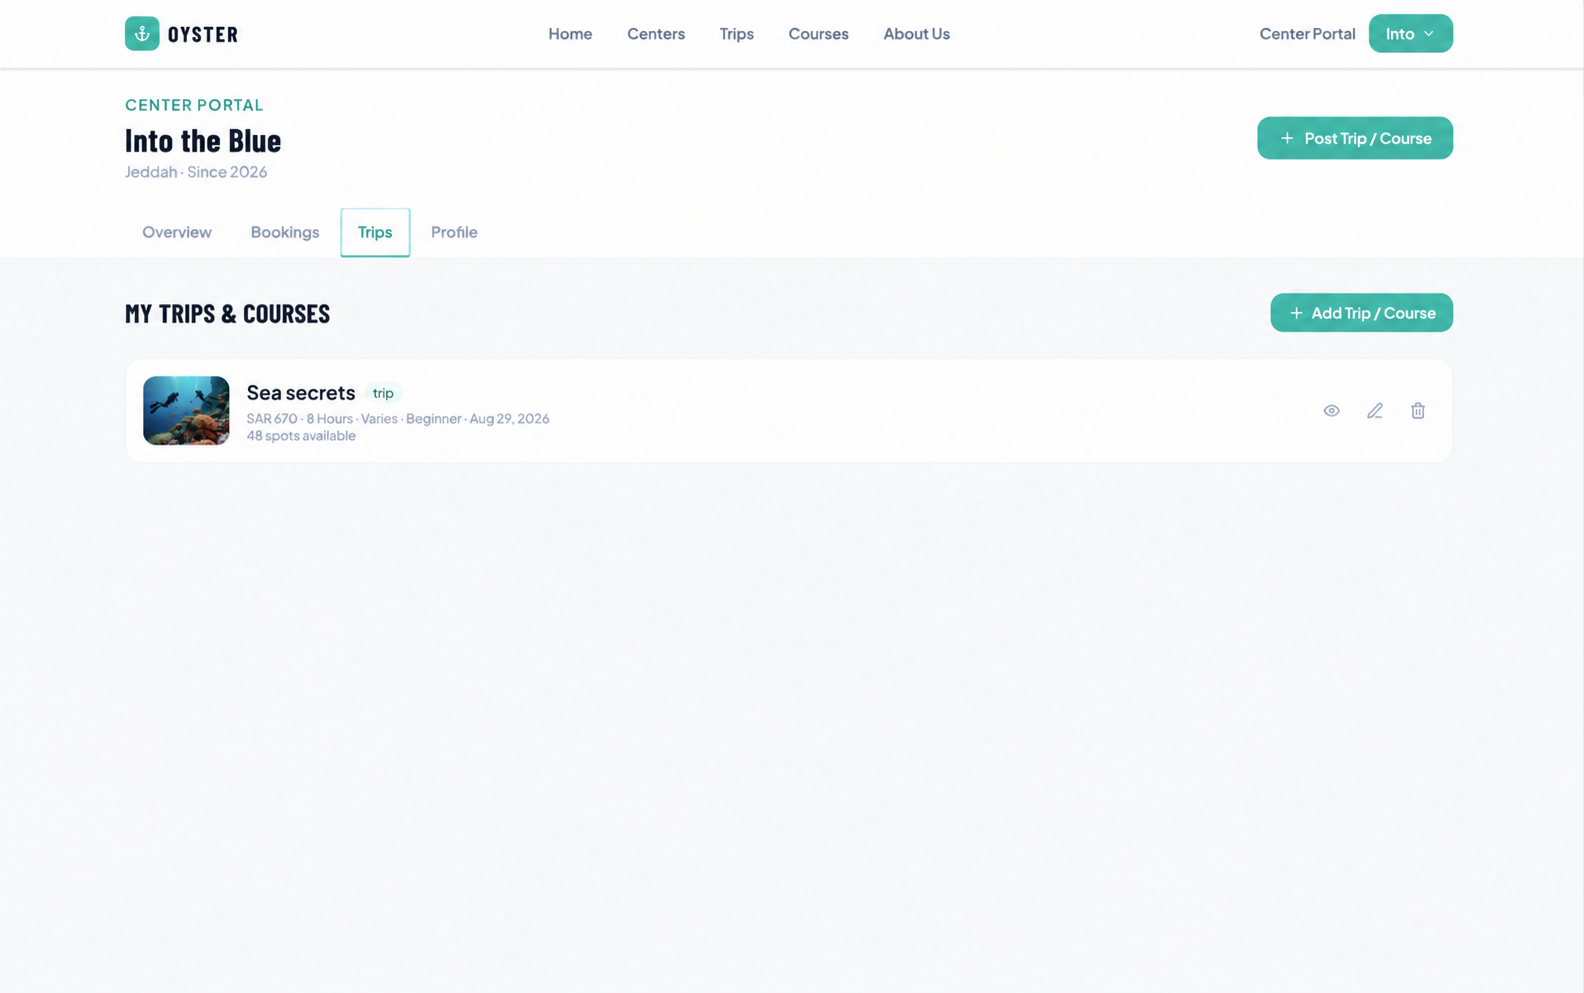
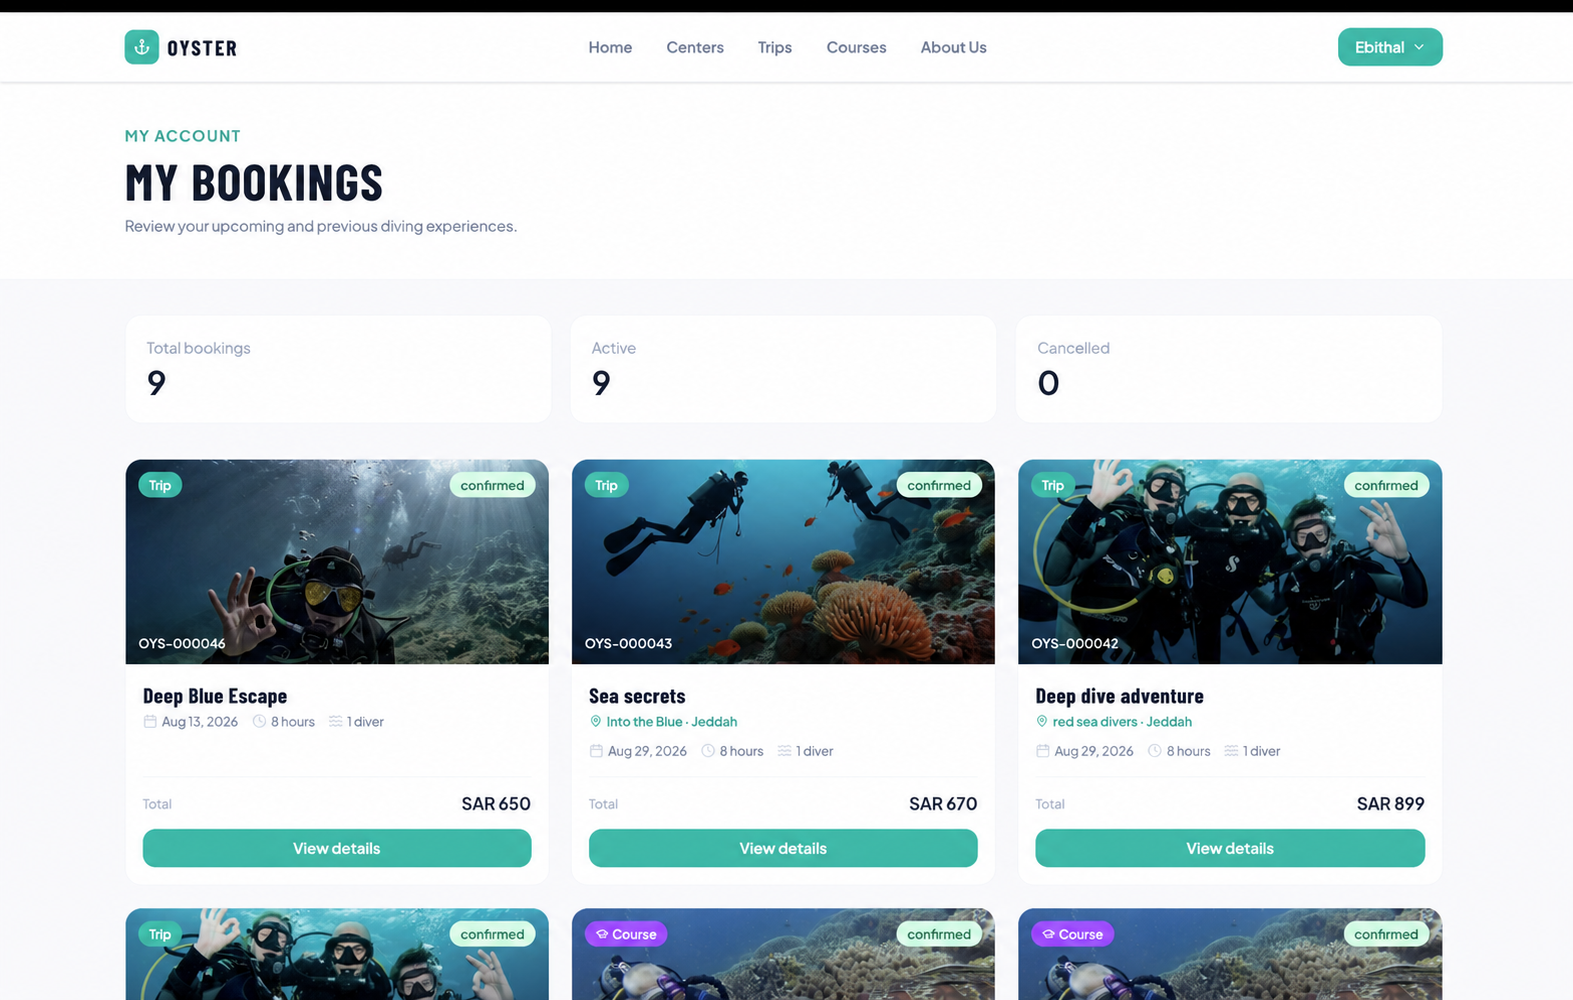
fix: assign landing page feature screenshots

diff --git a/stage5/landing-page/src/App.tsx b/stage5/landing-page/src/App.tsx
@@ -12,6 +12,7 @@ import {
   Waves,
 } from "lucide-react";
 import bookingFeatureImage from "./assets/booking-feature.png";
+import addTripsFeatureImage from "./assets/add-trips-feature.png";
 import reviewsFeatureImage from "./assets/reviews-feature.png";
 
 const APP_URL = "https://zeroyster.onrender.com";
@@ -44,7 +45,7 @@ const features = [
   {
     title: "Add Trips & Courses",
     description: "Diving centers and instructors can publish their experiences and reach more divers.",
-    image: "https://images.unsplash.com/photo-1682687982167-d7fb3ed8541d?w=900&h=520&fit=crop&auto=format",
+    image: addTripsFeatureImage,
     icon: <BookOpen />,
   },
 ];
